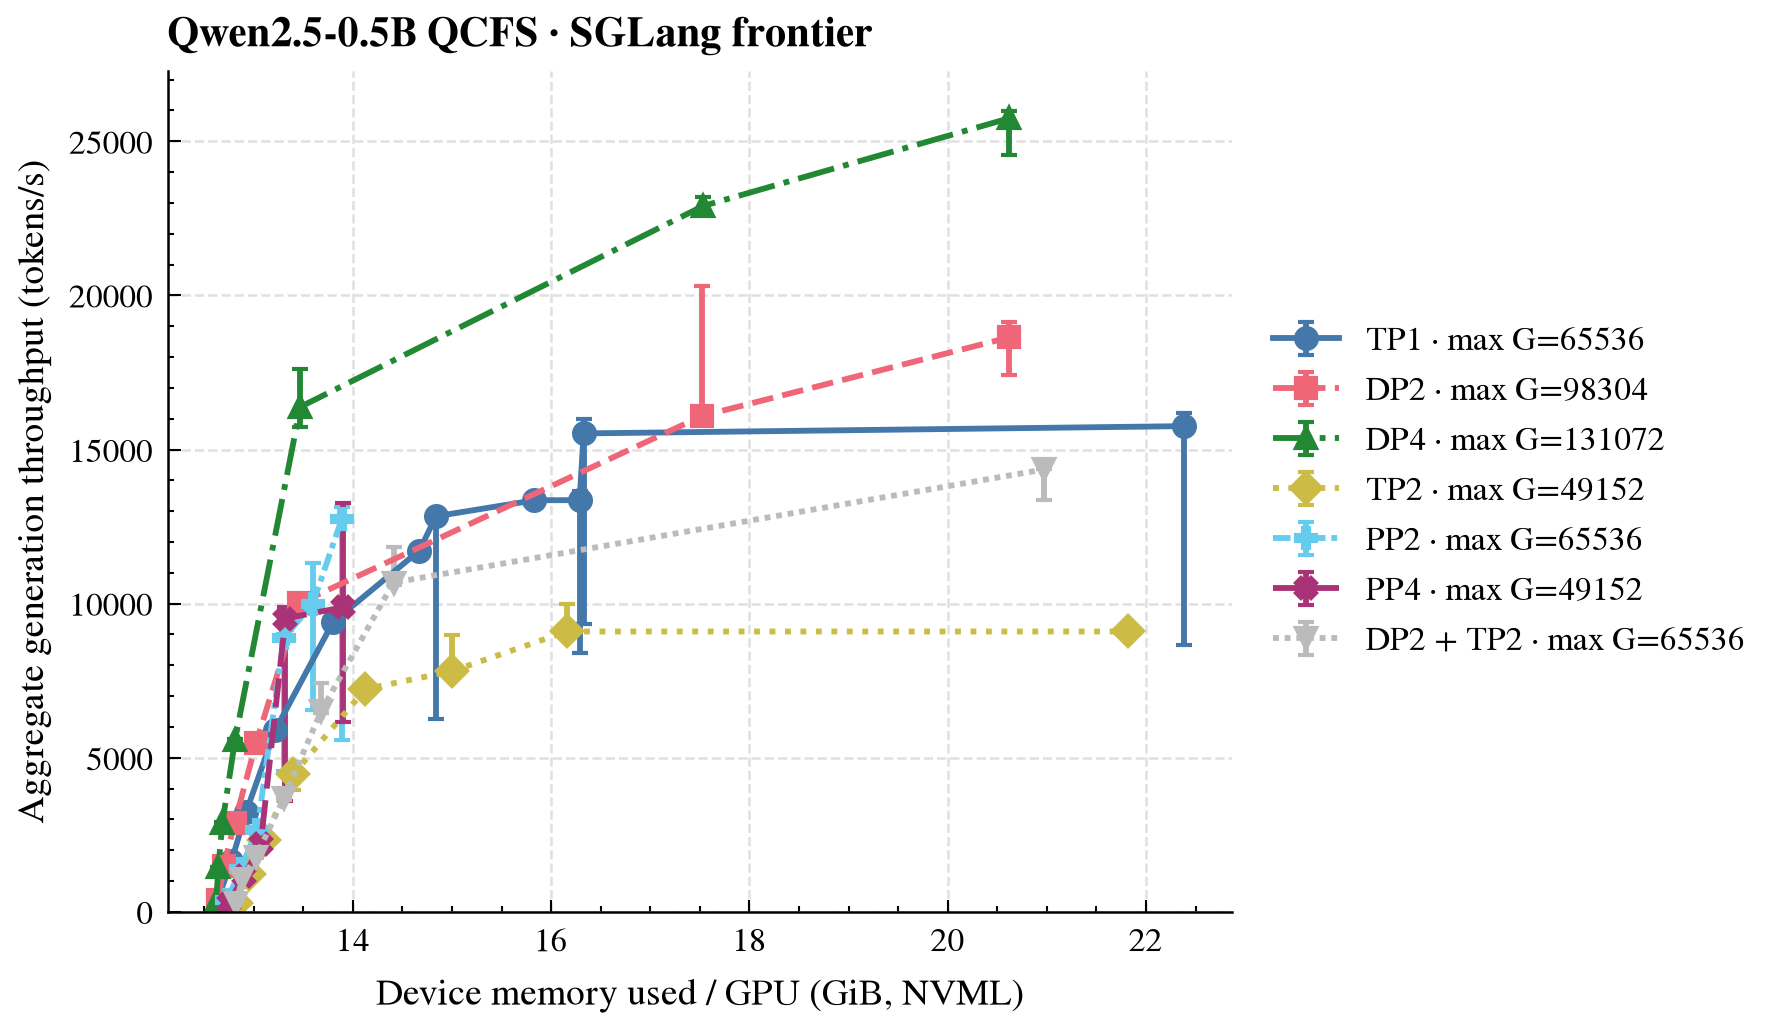
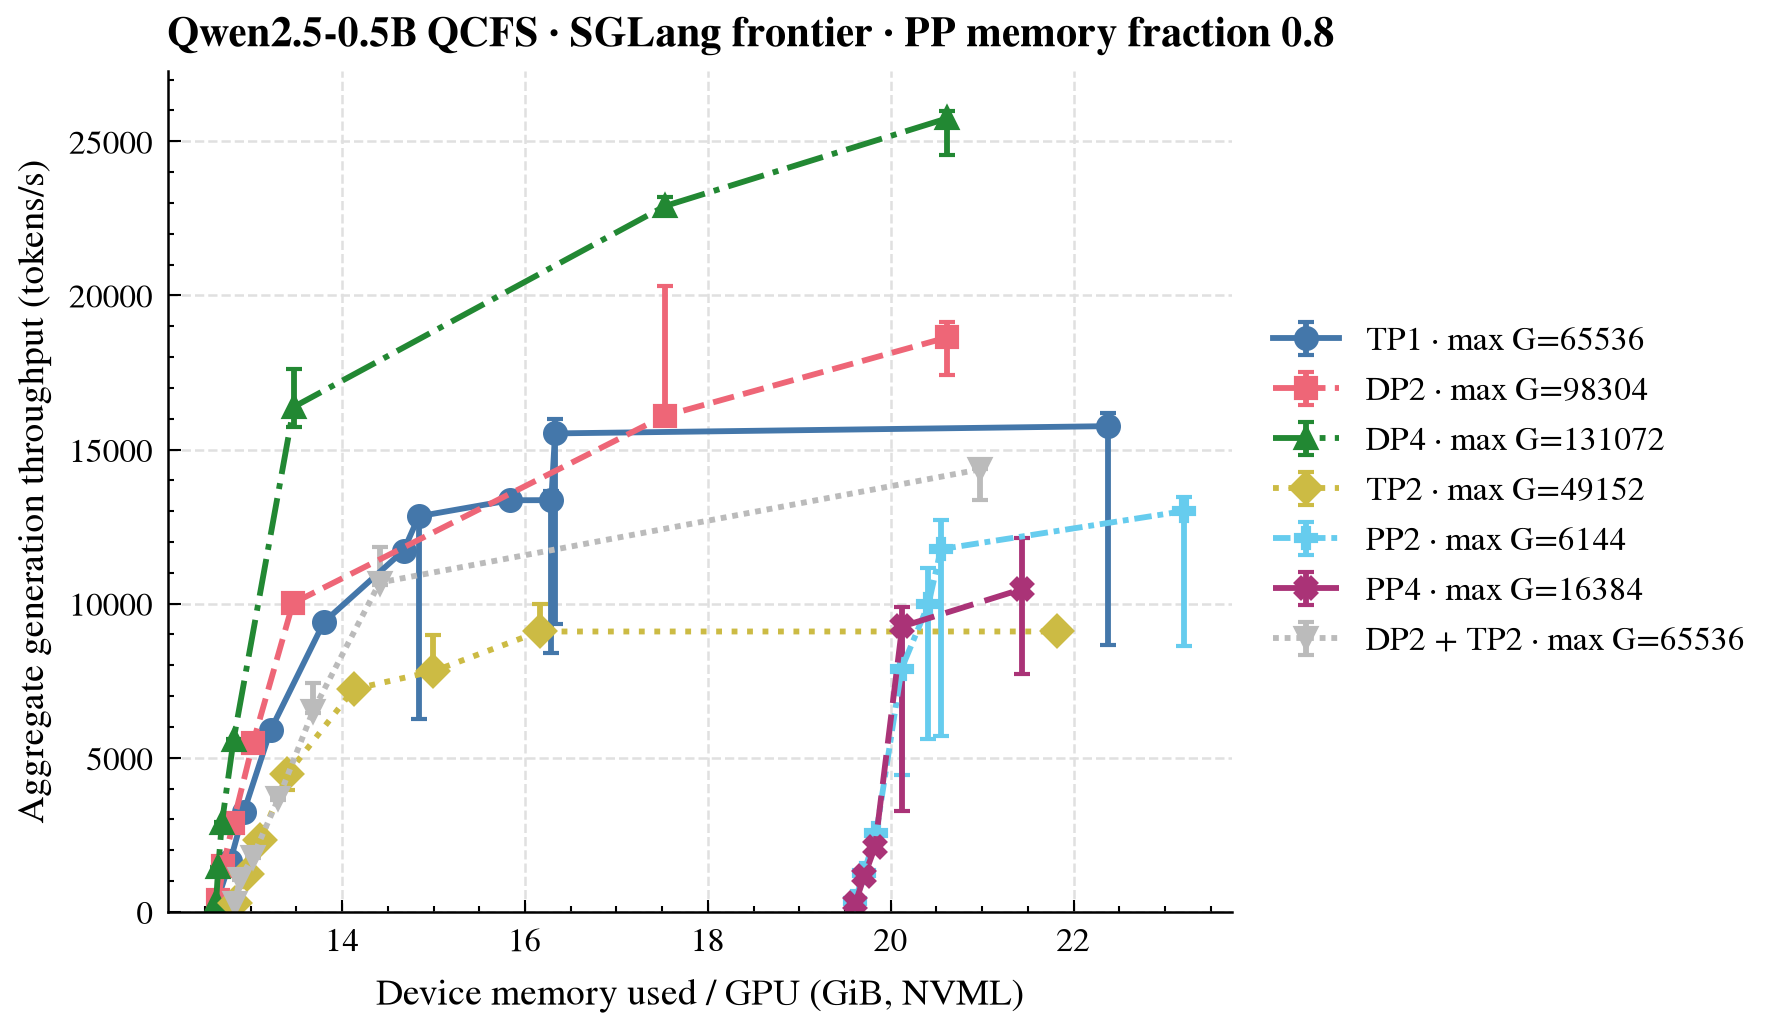
fix(distributed): tune SGLang pipeline memory benchmarks

diff --git a/benchmark/plot_distributed_inference.py b/benchmark/plot_distributed_inference.py
@@ -327,7 +327,8 @@ def _load_sglang(results: Path) -> list[dict]:
                     "peak_memory_gib_min": memory,
                     "peak_memory_gib_max": memory,
                     "notes": (
-                        "Radix cache disabled; static memory fraction 0.5; "
+                        "Radix cache disabled; static memory fraction "
+                        f"{data['memory_fraction']}; "
                         f"{len(throughputs)} timed repeats"
                     ),
                 }
@@ -652,7 +653,7 @@ def main() -> None:
         sglang_rows,
         args.output,
         ("tp1", "dp2", "dp4", "tp2", "pp2", "pp4", "dp2tp2"),
-        "Qwen2.5-0.5B QCFS · SGLang frontier",
+        "Qwen2.5-0.5B QCFS · SGLang frontier · PP memory fraction 0.8",
         "Device memory used / GPU (GiB, NVML)",
         "Aggregate generation throughput (tokens/s)",
         "sglang-inference.png",

diff --git a/benchmark/snn_llm/sglang_inference.py b/benchmark/snn_llm/sglang_inference.py
@@ -119,6 +119,7 @@ def main() -> None:
                         "decode_context_parallel_size": (
                             args.decode_context_parallel_size
                         ),
+                        "memory_fraction": args.memory_fraction,
                     },
                     sort_keys=True,
                 ),

diff --git a/test/activation_based/test_distributed_inference.py b/test/activation_based/test_distributed_inference.py
@@ -61,6 +61,7 @@ def test_sglang_plot_accepts_seven_repeat_median(tmp_path):
         "tensor_parallel_size": 1,
         "pipeline_parallel_size": 1,
         "data_parallel_size": 1,
+        "memory_fraction": 0.5,
         "measurements": [
             {
                 "prompt_count": 16,

diff --git a/docs/source/tutorials/en/distributed_training.rst b/docs/source/tutorials/en/distributed_training.rst
@@ -1065,14 +1065,17 @@ The regular grid runs sequentially within one Engine per topology. Every
 capacity-boundary ``2x/1.5x`` candidate owns a separate Engine lifetime and a
 360-second budget. Regular points have three same-G warmups followed by three
 measurements; scheduler points whose three-run max/min exceeds 1.3 remain
-``unstable``. This update adds non-power-of-two fine grids near the TP1, PP2,
-and PP4 frontiers. Those points also use three warmups, followed by seven timed
-runs whose median resists periodic scheduler slow samples while the plot retains
-the complete min/max range. Engine startup was excluded
+``unstable``. The TP1 frontier refinement and the formal PP2/PP4 sweeps use
+three warmups followed by seven timed runs. Their medians resist periodic
+scheduler slow samples while plots retain the complete min/max range. PP2 uses
+11 points over G=16--4096 and PP4 uses 13 over G=16--8192; three-run capacity
+probes at G=6144/16384 confirm request-queue plateaus. Engine startup was excluded
 and Radix cache was disabled. SGLang workers do not expose PyTorch allocator peak,
 so the horizontal axis uses the busiest GPU's post-generation NVML device-memory
-usage. It includes the ``memory_fraction_static=0.5`` KV pool and is not directly
-comparable to Vision peak allocated memory. The static KV pool and
+usage. Non-PP topologies use ``memory_fraction_static=0.5``. That setting made
+each PP stage plateau prematurely at 13--16 GiB, so the formal PP2/PP4 sweeps
+uniformly use 0.8. The horizontal axis includes this static KV pool and is not
+directly comparable to Vision peak allocated memory. The static KV pool and
 MiB-resolution NVML readings can give different G
 values the same horizontal coordinate. The CSV retains every measurement, while
 lines connect only the throughput-memory Pareto frontier. Only the
@@ -1083,15 +1086,21 @@ segments and unexplained detached markers.
     :width: 720px
     :alt: Qwen2.5-0.5B QCFS SGLang offline-generation throughput
 
-    SGLang offline-generation throughput-memory Pareto frontiers; frontier points show the three- or seven-run median and full range.
+    SGLang offline-generation throughput-memory Pareto frontiers; PP2/PP4 use a 0.8 static-memory fraction.
 
 The best TP1, DP2, DP4, TP2, PP2, PP4, and DP2 x TP2 frontier points reach
-15758.7, 18636.8, 25743.8, 9097.7, 12733.8, 9885.6, and 14355.1 generated
-tokens/s at G=2048, 16384, 32768, 8192, 1024, 2048, and 32768. None should be
-misread as per-GPU batch. The seven-run TP1, PP2, and PP4 fine grids continue to
-G=3072, 12288, and 8192 without improving median throughput. Their plotted
-endpoints are therefore measured plateau frontiers rather than prematurely
-terminated rising segments.
+15758.7, 18636.8, 25743.8, 9097.7, 13003.0, 10470.4, and 14355.1 generated
+tokens/s at G=2048, 16384, 32768, 8192, 4096, 4096, and 32768. None should be
+misread as per-GPU batch. The PP2/PP4 frontiers now extend to 23.21/21.43 GiB;
+capacity probes at G=6144/16384 do not improve throughput, confirming that the
+horizontal range reaches the memory/request plateau.
+
+The two rightmost TP1 frontier points come from independent Engine grids at
+G=2176 and G=2048. Their medians are 15522.8 and 15758.7 tokens/s, while their
+full seven-run ranges are 9339.4--15976.3 and 8666.4--16176.7. The heavy overlap
+shows a scheduler plateau, not duplicate data. Their different horizontal
+positions reflect NVML allocator state across Engine lifetimes; the frontier is
+ordered by memory rather than G.
 SGLang caps in-flight
 tokens and queues excess requests, so user request batch has no traditional OOM
 point; the complete boundary is a throughput plateau rather than a manufactured
@@ -1119,11 +1128,11 @@ disables the overlap schedule and stage traffic crosses PCIe.
       - 49152/49152
       - 65536/65536
     * - PP2
-      - 65536/65536
-      - 98304/98304
+      - 6144/6144
+      - not reached; 23.23-GiB request-queue plateau
     * - PP4
-      - 49152/49152
-      - 65536/65536
+      - 16384/16384
+      - not reached; 21.43-GiB request-queue plateau
     * - DP2 x TP2
       - 32768/65536
       - 49152/98304
